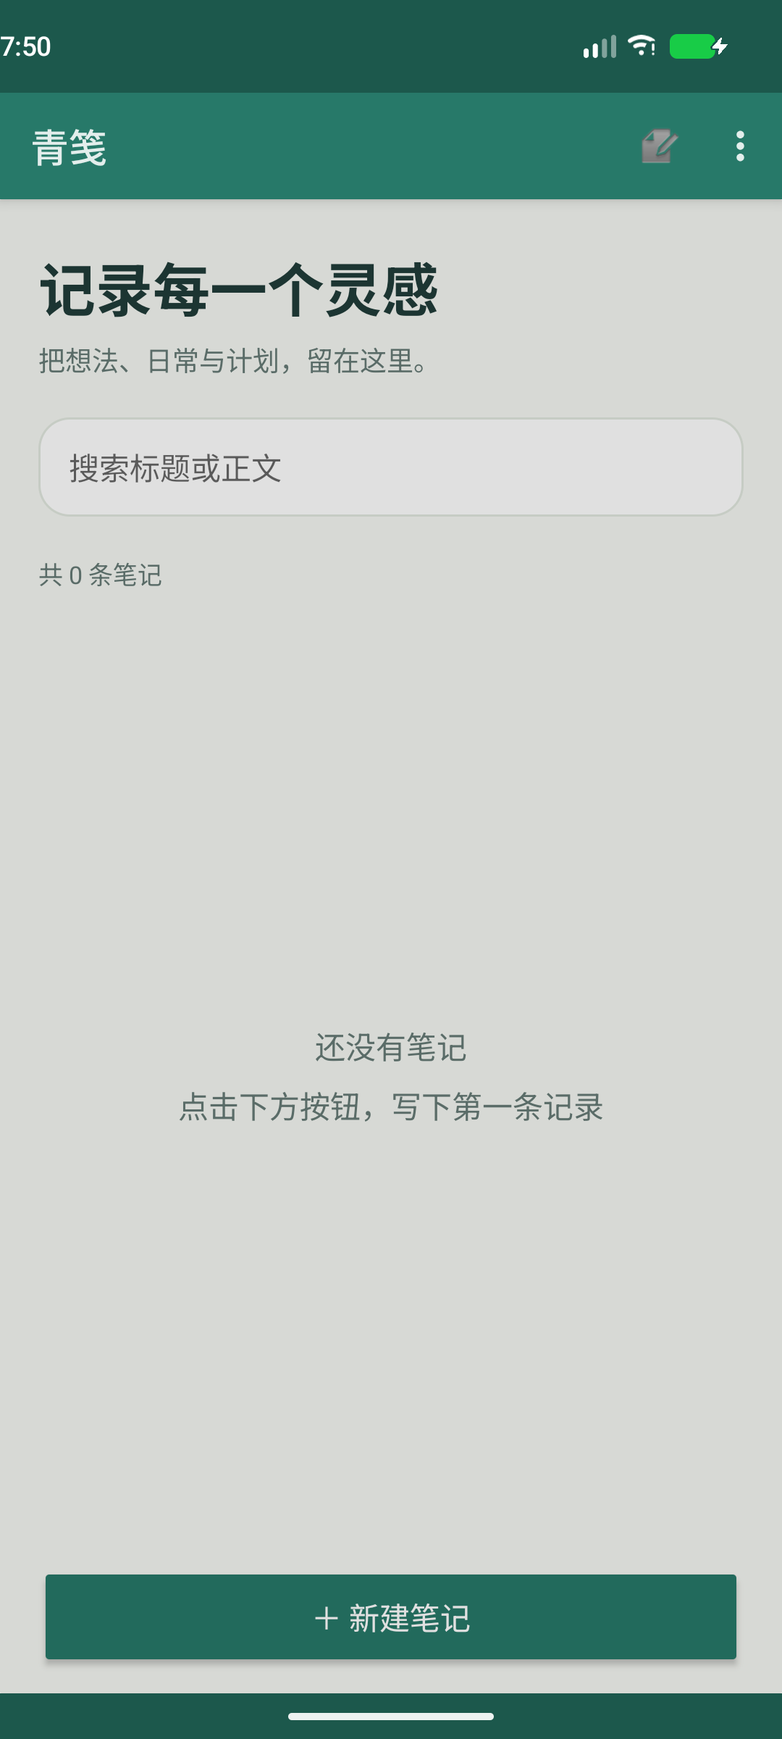
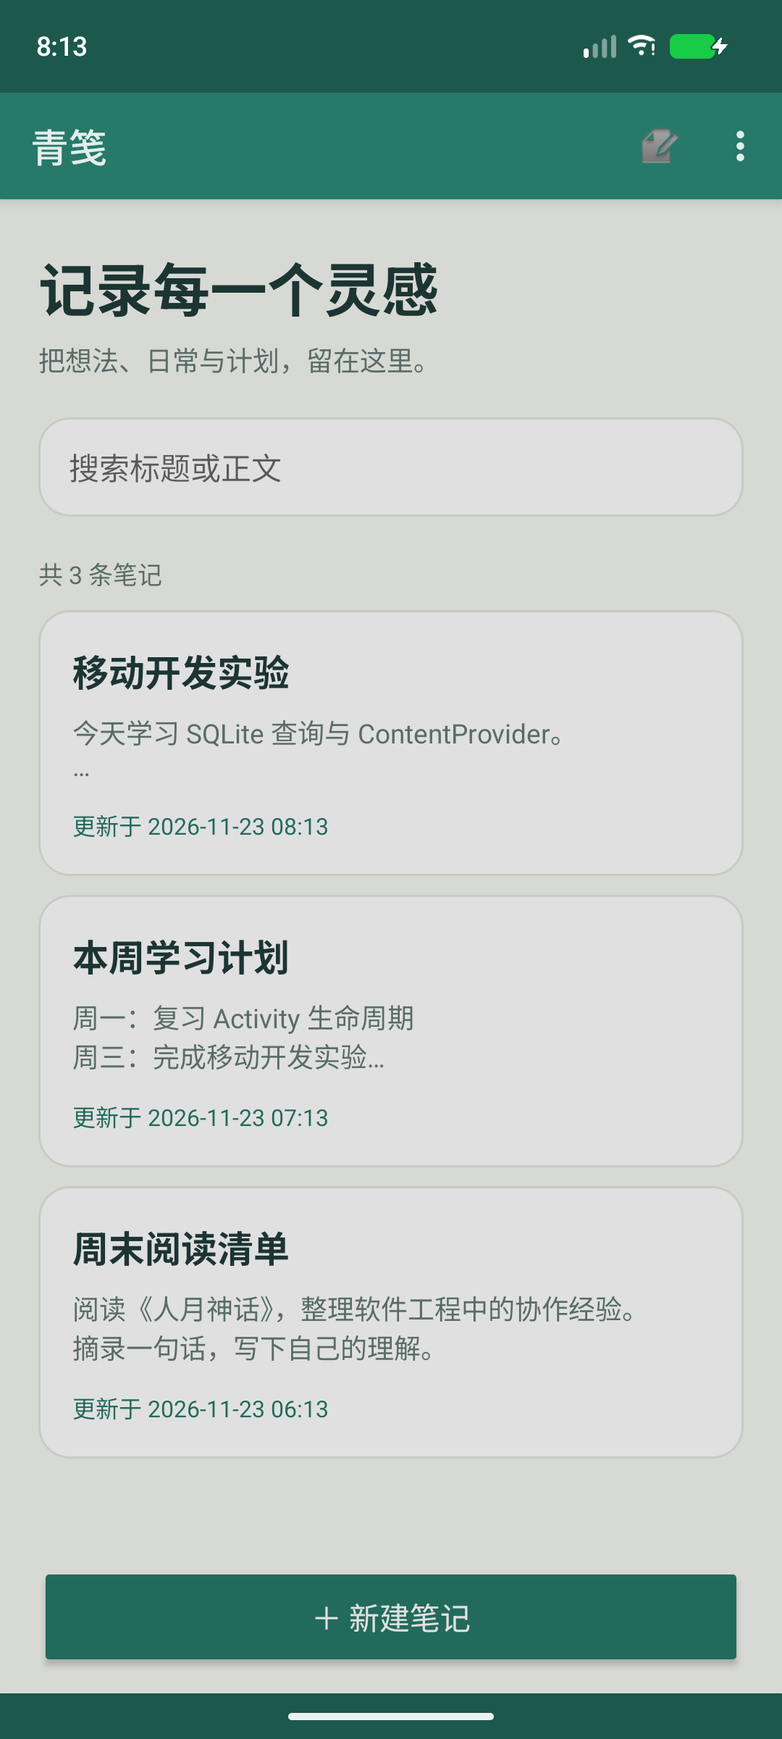
update

diff --git a/README.md b/README.md
@@ -1,80 +1,339 @@
-# 青笺 NotePad：期中实验
+# 青笺 NotePad · 移动软件开发期中实验
 
-在原 NotePad 示例的 Java + SQLite + ContentProvider 结构上完成实验扩展，无需服务器。
+> 记录每一个灵感，把想法、日常与计划留在这里。
 
-## 已实现功能
+青笺是在 Android 官方早期 NotePad 示例基础上扩展的本地记事本应用。本项目保留 **Java + SQLite + ContentProvider** 的原有结构，完成时间戳与笔记查询两项基本要求，并增加界面美化与 TXT 导出两项扩展功能。
 
-| 实验要求 | 实现 |
+**主要能力：** 标题与正文编辑 · 自动保存 · 修改时间展示 · 实时搜索 · 复制粘贴 · 删除确认 · UTF-8 文本导出。
+
+## 目录
+
+- [实验要求与完成情况](#实验要求与完成情况)
+- [界面预览](#界面预览)
+- [功能演示与操作说明](#功能演示与操作说明)
+- [项目结构与数据流](#项目结构与数据流)
+- [关键实现](#关键实现)
+- [环境配置与运行](#环境配置与运行)
+- [测试与验收](#测试与验收)
+- [演示顺序与报告建议](#演示顺序与报告建议)
+- [当前边界与后续扩展](#当前边界与后续扩展)
+
+## 实验要求与完成情况
+
+| 类型 | 实验要求 | 本项目实现 | 对应位置 |
+| --- | --- | --- | --- |
+| 基本要求一 | 笔记条目增加时间戳 | 显示最后修改时间，按修改时间倒序排列 | `NotesList.java`、`noteslist_item.xml` |
+| 基本要求二 | 根据标题或内容查询 | 同一个搜索框同时检索标题与正文，输入后实时筛选 | `NotesList.java` |
+| 扩展功能一 | UI 美化 | 青绿色主题、卡片条目、正文摘要、笔记数量、空状态、独立标题输入 | `res/layout/`、`styles.xml` |
+| 扩展功能二 | 导出笔记 | 通过系统文件选择器导出包含标题、时间和正文的 UTF-8 TXT | `NoteEditor.java` |
+| 基础功能 | 新建、编辑、删除、复制、粘贴 | 保留并修复操作入口，增加删除确认 | 两个主要 Activity、清单和菜单 |
+| 使用体验 | 数据保存与页面恢复 | 离开编辑页时自动保存，内容不变不更新时间，重建页面复用笔记 URI | `NoteEditor.java` |
+
+本次扩展复用已有的 `created`、`modified` 字段，未新增表，也未提高数据库版本。
+
+## 界面预览
+
+以下图片均为实际运行截图，使用专用 Android 模拟器和演示数据采集。示例标题与正文用于展示实验功能；截图中的时间取自该设备，应用实际按设备本地时区显示时间。
+
+<table>
+  <tr>
+    <th>笔记首页</th>
+    <th>笔记编辑</th>
+    <th>正文检索</th>
+  </tr>
+  <tr>
+    <td align="center"><img src="docs/screenshots/02-notes-list.png" width="250" alt="首页显示三条笔记、正文摘要和最后修改时间"></td>
+    <td align="center"><img src="docs/screenshots/07-note-editor.png" width="250" alt="编辑页独立填写标题与多行正文"></td>
+    <td align="center"><img src="docs/screenshots/04-search-body.png" width="250" alt="输入 SQLite 后匹配到正文包含该词的笔记"></td>
+  </tr>
+</table>
+
+## 功能演示与操作说明
+
+### 1. 新建、编辑与自动保存
+
+在首页点击底部 **“＋ 新建笔记”**，分别输入标题和正文。点击右上角“保存”可保存并返回；直接返回或切换页面也会触发自动保存。
+
+- 标题留空、正文非空：自动采用正文首行，最多取 30 个字符。
+- 只有标题：可以保存为一条笔记。
+- 全空的新笔记：退出时丢弃，避免列表出现空记录。
+- 打开已有笔记但没有修改：退出后保持原修改时间。
+- “撤销未保存的修改”：恢复到最近一次保存的标题和正文；已经自动保存的版本不在撤销范围内。
+
+<table>
+  <tr><th>首次打开的空状态</th><th>编辑标题与正文</th></tr>
+  <tr>
+    <td align="center"><img src="docs/screenshots/01-empty.png" width="280" alt="尚无笔记时显示引导文字与新建按钮"></td>
+    <td align="center"><img src="docs/screenshots/07-note-editor.png" width="280" alt="移动开发实验笔记的标题和正文编辑界面"></td>
+  </tr>
+</table>
+
+编辑页把标题、辅助说明和正文分开，正文支持多行输入与滚动。旋转屏幕等页面重建场景通过保存笔记 URI 恢复原记录，避免重新插入一条笔记。
+
+### 2. 时间戳与列表排序
+
+首页每条卡片包含 **标题 → 正文摘要 → 更新时间** 三个层次。时间采用 `yyyy-MM-dd HH:mm` 格式，列表按 `modified DESC, _id DESC` 排列，最近修改的笔记优先显示。
+
+<img src="docs/screenshots/02-notes-list.png" width="320" alt="三条示例笔记按最后修改时间排列，卡片底部显示更新于日期和时间">
+
+这里展示的是“最后修改时间”。创建时初始化时间；正文或标题实际发生变化时更新时间。仅打开后返回、导出未修改的笔记，都不会无故将记录移到列表顶部。
+
+### 3. 按标题与正文搜索
+
+在首页顶部输入关键词，即可同时匹配标题和正文。搜索结果仍保留摘要和时间，条数随结果更新；清空关键词后恢复全部笔记。
+
+<table>
+  <tr><th>标题命中</th><th>正文命中</th><th>没有结果</th></tr>
+  <tr>
+    <td align="center"><img src="docs/screenshots/03-search-title.png" width="250" alt="学习计划匹配标题本周学习计划"></td>
+    <td align="center"><img src="docs/screenshots/04-search-body.png" width="250" alt="SQLite 仅存在于正文中，仍能检索到移动开发实验"></td>
+    <td align="center"><img src="docs/screenshots/05-search-empty.png" width="250" alt="输入旅行预算后显示零条笔记和无结果提示"></td>
+  </tr>
+</table>
+
+本例中，“SQLite”没有出现在“移动开发实验”的标题里，但存在于正文中，因此依然命中。这一组截图可以直接用来说明实验要求中的“根据标题或内容查询”。
+
+关键词通过查询参数传入，`%`、`_` 和反斜线经过转义后按普通字符搜索。例如搜索 `%` 时，只匹配实际包含百分号的笔记。
+
+### 4. 复制、粘贴与删除确认
+
+长按列表条目可打开上下文菜单，选择“打开”“复制笔记”或“删除”。复制后，在首页右上角菜单选择 **“粘贴为新笔记”**，创建包含原标题和正文的新记录；剪贴板中的普通文本也可粘贴为笔记。
+
+<table>
+  <tr><th>长按条目操作</th><th>删除前二次确认</th></tr>
+  <tr>
+    <td align="center"><img src="docs/screenshots/06-note-actions.png" width="280" alt="长按笔记后出现打开、复制笔记、删除菜单"></td>
+    <td align="center"><img src="docs/screenshots/09-delete-confirm.png" width="280" alt="删除操作弹出确认对话框，可取消或确认删除"></td>
+  </tr>
+</table>
+
+编辑页菜单也提供删除入口。删除前需要确认，取消后保留笔记。适配新版 Android 时，复制选中的笔记 URI 使用临时授权，粘贴等编辑页获得焦点后读取剪贴板。
+
+### 5. 导出为 TXT
+
+打开笔记后，按以下步骤导出：
+
+1. 点击右上角更多菜单，选择 **“导出为 TXT”**。
+2. 在系统文件选择器中选择保存目录，确认文件名。
+3. 点击系统的保存按钮，等待应用提示导出结果。
+4. 使用文件管理器或文本编辑器打开 TXT，检查标题、修改时间、中文和换行。
+
+<table>
+  <tr><th>编辑页功能菜单</th><th>系统文件保存页面</th></tr>
+  <tr>
+    <td align="center"><img src="docs/screenshots/08-editor-menu.png" width="280" alt="编辑页更多菜单包含导出为 TXT、撤销未保存的修改和删除"></td>
+    <td align="center"><img src="docs/screenshots/10-export-picker.png" width="280" alt="系统文件选择器展示 TXT 文件名和保存位置"></td>
+  </tr>
+</table>
+
+导出内容为“标题 + 最后修改时间 + 空行 + 正文”，编码为 UTF-8。可查看本次实际导出得到的 [TXT 示例文件](docs/screenshots/export-example.txt)。导出先保存当前有效内容，再生成内容快照；取消文件选择只会取消导出。
+
+```text
+移动开发实验
+更新于 <设备显示的最后修改时间>
+
+今天学习 SQLite 查询与 ContentProvider。
+
+实验目标
+1. 在列表中显示笔记修改时间
+2. 支持标题和正文关键词检索
+3. 美化界面，导出 UTF-8 文本
+
+下一步：检查中文与换行是否完整保留。
+```
+
+以上代码块用占位文字说明时间字段，TXT 链接中保留实际导出值。截图展示真实系统文件选择页面；随附示例文件通过测试指定保存目标后，调用应用实际导出逻辑生成。
+
+## 项目结构与数据流
+
+```text
+app/src/main/
+├── AndroidManifest.xml                # 页面入口、笔记操作与 Provider 注册
+├── java/com/example/android/notepad/
+│   ├── NotesList.java                 # 列表、搜索、时间绑定、长按操作
+│   ├── NoteEditor.java                # 标题正文编辑、自动保存、TXT 导出
+│   ├── NotePad.java                   # URI、列名和排序规则
+│   ├── NotePadProvider.java           # SQLite 建表与增删改查
+│   ├── TitleEditor.java               # 兼容原标题编辑入口
+│   └── NotesLiveFolder.java           # 原示例的旧版动态文件夹入口
+└── res/
+    ├── layout/                        # 列表、条目、编辑页布局
+    ├── menu/                          # 首页、编辑页、长按菜单
+    ├── drawable/note_card.xml          # 卡片圆角、底色与边框
+    └── values/                        # 中文文案、颜色与主题
+```
+
+```mermaid
+flowchart LR
+    A[列表与搜索 NotesList] -->|后台查询| B[ContentResolver]
+    C[笔记编辑 NoteEditor] -->|插入或更新| B
+    B --> D[NotePadProvider]
+    D --> E[(SQLite 笔记表)]
+    D -->|数据变化通知| A
+    C -->|导出内容快照| F[系统文件选择器]
+    F --> G[UTF-8 TXT 文件]
+```
+
+列表通过 `CursorLoader` 在后台查询数据，Provider 负责访问 SQLite。写入后 Provider 发出变化通知，Loader 重新加载，适配器更新列表。导出通过用户选择的目标 URI 写入文件。
+
+## 关键实现
+
+### 数据表与时间字段
+
+沿用 `notes` 表：
+
+| 列名 | 类型 | 作用 |
+| --- | --- | --- |
+| `_id` | INTEGER PRIMARY KEY | 唯一标识笔记，与单条笔记 URI 对应 |
+| `title` | TEXT | 标题 |
+| `note` | TEXT | 正文 |
+| `created` | INTEGER | 创建时间，毫秒时间戳 |
+| `modified` | INTEGER | 最后修改时间，毫秒时间戳 |
+
+列表的 `PROJECTION` 加入 `modified`，在 `SimpleCursorAdapter.ViewBinder` 中把毫秒值格式化为可读日期。编辑页先对比当前内容与上次保存值，变化时才写入 `System.currentTimeMillis()`，从而保证更新时间反映实际编辑。
+
+### 搜索与游标管理
+
+搜索条件的核心形式：
+
+```sql
+(title LIKE ? ESCAPE '\' OR note LIKE ? ESCAPE '\')
+```
+
+两个参数均为转义后的 `%关键词%`。`TextWatcher` 监听输入变化，重启 `CursorLoader`；`onLoadFinished()` 使用 `swapCursor()` 更新适配器。查询与游标生命周期由 Loader 管理，避免每次输入都留下一个旧的受管游标。
+
+### 编辑状态恢复
+
+新建笔记时先插入记录并取得 URI，后续保存更新同一记录。`onSaveInstanceState()` 保留 URI、新建状态、待处理粘贴状态和导出快照；标题与正文视图拥有固定 ID，由系统恢复输入状态。页面重建后复用 URI，不再次创建记录。
+
+### 文件导出
+
+导出流程使用 Android 的 Storage Access Framework：
+
+```text
+保存笔记 → 生成文本快照 → ACTION_CREATE_DOCUMENT
+        → 用户选择目标 URI → 后台写入 UTF-8 → 显示成功或失败
+```
+
+采用 `text/plain` MIME 类型，文件名替换不可用字符并限制长度。使用 `ContentResolver.openOutputStream()` 配合 UTF-8 写入，支持用户选择的文件提供程序，不申请广泛的存储读写权限。后台线程负责文件写入，避免文件提供程序响应较慢时阻塞界面。
+
+### 原项目入口修复
+
+| 操作 | 接收页面与数据类型 |
 | --- | --- |
-| 必做：时间戳 | 列表显示最后修改时间，格式为 `yyyy-MM-dd HH:mm`，按修改时间倒序排列 |
-| 必做：笔记查询 | 顶部搜索框同时匹配标题和正文，输入即筛选；支持中文及 `%`、`_`、反斜线的字面量查询 |
-| 扩展一：UI 美化 | 青绿色主题、卡片列表、正文摘要、数量提示、空状态、独立标题输入和舒适的编辑间距 |
-| 扩展二：笔记导出 | 编辑页菜单“导出为 TXT”，通过系统文件选择器保存 UTF-8 文本，包含标题、修改时间与正文 |
+| 查看、编辑已有笔记 | `NoteEditor`，单条笔记 MIME 类型 |
+| 新建、粘贴笔记 | `NoteEditor`，笔记集合 MIME 类型 |
+| 兼容原标题编辑操作 | `TitleEditor`，`EDIT_TITLE` action 与单条笔记 MIME 类型 |
 
-保留新建、编辑、删除、复制和粘贴功能，修正原清单中的新建/粘贴/标题编辑入口。编辑页离开时自动保存；内容未变化时不刷新修改时间。删除需要确认。空白的新笔记退出时丢弃，已有笔记不会因清空内容而被自动删除。
+修正了新建操作指向标题编辑页的配置。主要编辑页现在直接提供标题输入；原来的标题编辑入口仍保留，修改标题时也会更新时间。
 
-## 使用方法
+## 环境配置与运行
 
-1. 点击底部“新建笔记”，填写标题和正文；标题留空时自动采用正文首行（最多 30 个字符）。
-2. 点击“保存”或返回列表，查看正文摘要和更新时间。
-3. 在顶部输入关键词，按标题或正文筛选；清空输入后恢复全部笔记。
-4. 长按条目可打开、复制或删除；右上角菜单可将剪贴板内容粘贴为新笔记。
-5. 打开笔记，在右上角菜单选择“导出为 TXT”，选择保存位置并确认。取消文件选择不会删除笔记。
-6. “撤销未保存的修改”恢复到最近一次保存的标题和正文；自动保存后不能再撤销之前的版本。
+| 项目 | 配置 |
+| --- | --- |
+| 开发语言 | Java |
+| JDK | 17 |
+| Gradle | 8.13 |
+| Android Gradle Plugin | 8.1.0 |
+| compileSdk / targetSdk | 34 / 34 |
+| Build Tools | 34.0.0 |
+| 最低系统 | Android 5.0，API 21 |
+| 数据存储 | 本地 SQLite + ContentProvider |
 
-## 实现位置
+### Android Studio 运行
 
-- `NotesList.java`：`CursorLoader` 后台查询、参数化 LIKE 搜索、游标绑定、时间格式化、列表交互。
-- `NoteEditor.java`：标题与正文编辑、变化判断、生命周期保存、旋转恢复、TXT 导出。
-- `NotePad.java` / `NotePadProvider.java`：沿用原有 `created`、`modified` 字段和 Provider 接口，本次不升级数据库，不清空已有数据。
-- `TitleEditor.java`：兼容原标题编辑入口，仅实际修改标题时更新时间。
-- `res/layout/notes_list.xml` / `noteslist_item.xml` / `note_editor.xml`：列表、条目、编辑页布局。
-- `res/values/styles.xml` / `strings.xml`：统一主题和中文文案。
-- `AndroidManifest.xml`：修正操作与页面的匹配关系。
+1. 打开项目根目录，等待 Gradle 同步。
+2. 在 Gradle 设置中选择 JDK 17，确保安装 Android SDK Platform 34 与 Build Tools 34.0.0。
+3. 检查 `local.properties` 中的 `sdk.dir`，填写自己的 SDK 目录。
+4. 启动模拟器或连接开启 USB 调试的手机。
+5. 选择 `app`，点击 Run，首次进入后新建一条笔记。
 
-时间按设备当前时区显示。搜索通过 `selectionArgs` 传入关键词，并转义 LIKE 通配符。`CursorLoader` 负责后台查询和游标生命周期，监听 Provider 的数据更新。导出使用 `ACTION_CREATE_DOCUMENT`，不申请广泛存储权限；选择位置后的文件写入在后台线程执行。
+### 命令行构建
 
-## 构建
-
-- JDK 17
-- Android SDK Platform 34、Build Tools 34.0.0
-- Gradle 8.13、Android Gradle Plugin 8.1.0（沿用项目配置）
-- Android 5.0 / API 21 或更高版本
-
-在 Android Studio 中打开项目，确认 Gradle 使用 JDK 17，并让 `local.properties` 指向本机 Android SDK，然后同步并运行 `app`。
+在项目根目录执行：
 
 ```powershell
 .\gradlew.bat assembleDebug lintDebug
 ```
 
-安装包：`app/build/outputs/apk/debug/app-debug.apk`。
+安装包输出到 `app/build/outputs/apk/debug/app-debug.apk`。有 Android 调试工具时，可执行：
 
-构建插件可能提示 compileSdk 34 超出其已测试范围，这是原项目工具版本提示；应用仍需通过编译和静态检查。保留原有数据库升级逻辑，本次未触发升级；日后新增字段时应编写保留数据的迁移，不能直接使用原来的删表升级方式。
+```powershell
+adb install -r app/build/outputs/apk/debug/app-debug.apk
+```
 
-## 验证和演示
+如果出现 Java 版本问题，先检查 Gradle 使用的 JDK 是否为 17。构建插件可能提示 compileSdk 34 超出其已测试范围，这是工具版本兼容性提示，仍需以实际构建和检查结果为准。首次构建需要能够访问项目配置的依赖仓库。
 
-`ExperimentTest` 包含 7 项行为测试，覆盖标题/正文搜索、特殊字符、保存及时间语义、新建页重建不重复插入、中文多行 UTF-8 导出、复制粘贴、空白新笔记丢弃和正文首行生成标题。沿用原示例的 Android 测试框架，测试依赖无需另行下载。
+## 测试与验收
+
+### 已有功能测试记录
+
+[ExperimentTest.java](app/src/androidTest/java/com/example/android/notepad/ExperimentTest.java) 使用 Android 测试框架，在真实 Activity、Loader 和 Provider 之间验证行为。已保存的 [原始测试记录](docs/test-results.txt) 来自 **2026-11-16** 的独立 API 37 模拟器验证：**7 项测试全部通过**。
+
+| 测试方法 | 验证重点 |
+| --- | --- |
+| `testSearchTitleBodyLiteralWildcardsAndEmpty` | 标题、正文、特殊字符和无匹配结果 |
+| `testSavingAndReopeningDoesNotChangeTimestamp` | 保存正文、保留创建时间、未修改不刷新修改时间 |
+| `testNewNoteRecreationKeepsSingleRecord` | 页面重建后内容保留，只存在一条新记录 |
+| `testExportWritesChineseAndLineBreaksAsUtf8` | 实际导出写入、UTF-8 中文、多行和特殊字符 |
+| `testClipboardNotePasteKeepsTitleAndBody` | 从笔记 URI 复制粘贴后保留标题与正文 |
+| `testBlankNewNoteIsDiscardedOnExit` | 空白新笔记退出后不增加记录数 |
+| `testBodyOnlyNoteUsesFirstLineAsTitle` | 未输入标题时使用正文首行 |
+
+导出自动测试拦截文件选择请求并返回测试位置，随后执行实际文件写入与内容核对；没有自动操作第三方云盘。页面重建测试调用 `recreate()` 验证恢复逻辑，实际设备的旋转体验仍可按下方步骤手动验收。
+
+连接设备后执行：
 
 ```powershell
 .\gradlew.bat connectedDebugAndroidTest -Pandroid.testInstrumentationRunnerArguments.class=com.example.android.notepad.ExperimentTest
 ```
 
-建议演示流程：
+### 手动验收清单
 
-1. 新建“移动开发实验”，正文写“今天学习 SQLite 查询”。
-2. 新建另一条不含相同关键词的笔记。
-3. 搜索“SQLite”，证明关键词仅在正文中也能命中；输入不存在的词验证空状态，然后清空搜索。
-4. 编辑正文，返回列表展示修改时间；仅打开后返回，时间不变。
-5. 编辑期间旋转屏幕，确认标题和正文保留、没有重复笔记。
-6. 导出中文多行笔记，用文件应用打开 TXT 核对内容。
-7. 长按复制，再粘贴为新笔记；验证删除确认和重启后的数据保留。
+- [ ] 新建标题与正文，返回后内容保留，更新时间可读。
+- [ ] 仅打开已有笔记并返回，修改时间不变。
+- [ ] 输入仅存在于标题的关键词，可以命中。
+- [ ] 输入仅存在于正文的关键词，可以命中。
+- [ ] 输入不存在的词，显示无结果；清空后恢复全部列表。
+- [ ] 长按复制，使用“粘贴为新笔记”得到同内容的新记录。
+- [ ] 删除时先取消，笔记仍存在；确认后条目消失。
+- [ ] 导出 TXT，检查中文、标题、时间和换行。
+- [ ] 编辑期间旋转屏幕，输入保留且不重复创建记录。
+- [ ] 关闭并重新打开应用，已保存内容仍存在。
 
-实验报告可按“需求分析 → 原项目结构 → 时间戳 → 搜索 → UI 美化 → 导出 → 测试结果”组织。运行截图应来自实际应用。
+本次 README 更新于 **2026-11-23**，新增各功能的实际截图与导出样例；业务功能测试的日期与原始记录分开标注。
 
-## 本次验证结果
+## 演示顺序与报告建议
 
-- 应用和测试包均构建成功，`lintDebug` 为 0 错误；保留原项目的旧 API、图标密度等提示。
-- 独立 Android API 37 模拟器上，`ExperimentTest` 的 7 项测试全部通过。
-- TXT 测试拦截系统文件选择请求并返回测试保存位置，实际执行导出写入、核对 UTF-8 中文和换行；未自动操作第三方云盘。
-- 修复新版 Android 的剪贴板授权与焦点限制，原有笔记数据结构未改动。
-- 原始测试输出见 [验证记录](docs/test-results.txt)，界面见 [列表截图](docs/screenshots/notes-list.png)。
+建议用下面的顺序完成课堂展示，让每个操作都有明确的验收点：
+
+| 顺序 | 展示操作 | 对应实验要点 |
+| --- | --- | --- |
+| 1 | 打开首页，展示卡片、摘要和时间 | UI 美化、时间戳 |
+| 2 | 新建“移动开发实验”，输入多行正文并保存 | 数据插入与编辑 |
+| 3 | 搜索“学习计划”，再搜索正文中的“SQLite” | 标题与正文查询 |
+| 4 | 输入不存在的词，再清空搜索 | 空状态与恢复 |
+| 5 | 修改正文后返回，比较更新时间 | 时间戳更新语义 |
+| 6 | 展示长按菜单、复制粘贴和删除取消 | 原有功能完善 |
+| 7 | 导出 TXT，并打开文件核对中文与换行 | 导出扩展 |
+| 8 | 旋转编辑页、重启应用检查数据 | 页面恢复与持久化 |
+
+实验报告可以按 **实验目标 → 原项目结构 → 数据模型 → 两项基本功能 → 两项扩展功能 → 测试过程 → 结果与改进** 组织。截图应配上“操作、预期结果、实际结果”，不要只贴图片而不解释。
+
+## 当前边界与后续扩展
+
+- 当前实现面向本地文本笔记，TXT 导出不等于云备份或可恢复的数据库备份。
+- 自动保存发生在编辑页离开时，没有逐键保存、版本历史或回收站。
+- 时间显示精确到分钟，因此同一分钟内修改，界面文字可能相同；底层仍保存毫秒时间戳。
+- 当前搜索使用 SQLite `LIKE`，适合实验规模；大量数据时可考虑全文索引、搜索防抖与分页。
+- 保留了原示例的旧版动态文件夹代码，现代 Android 的主要演示范围是列表、编辑、搜索与导出。
+- 本次没有触发数据库升级。原示例 `onUpgrade()` 使用删表重建，后续增加分类、待办等字段时应改成保留数据的迁移。
+
+可继续扩展笔记分类、待办勾选、主题偏好、备份恢复和图片笔记；扩展时应为数据兼容与权限交互补充相应验证。
+
+## 项目来源
+
+本项目基于课程提供的 NotePad 示例扩展，源文件保留 Android Open Source Project 的版权和 Apache License 2.0 许可声明。
+
+- 原始项目：`fjnu-cse/NotePad`
+- 本次实现：时间戳、搜索、UI 美化、TXT 导出与相关兼容性修复。
